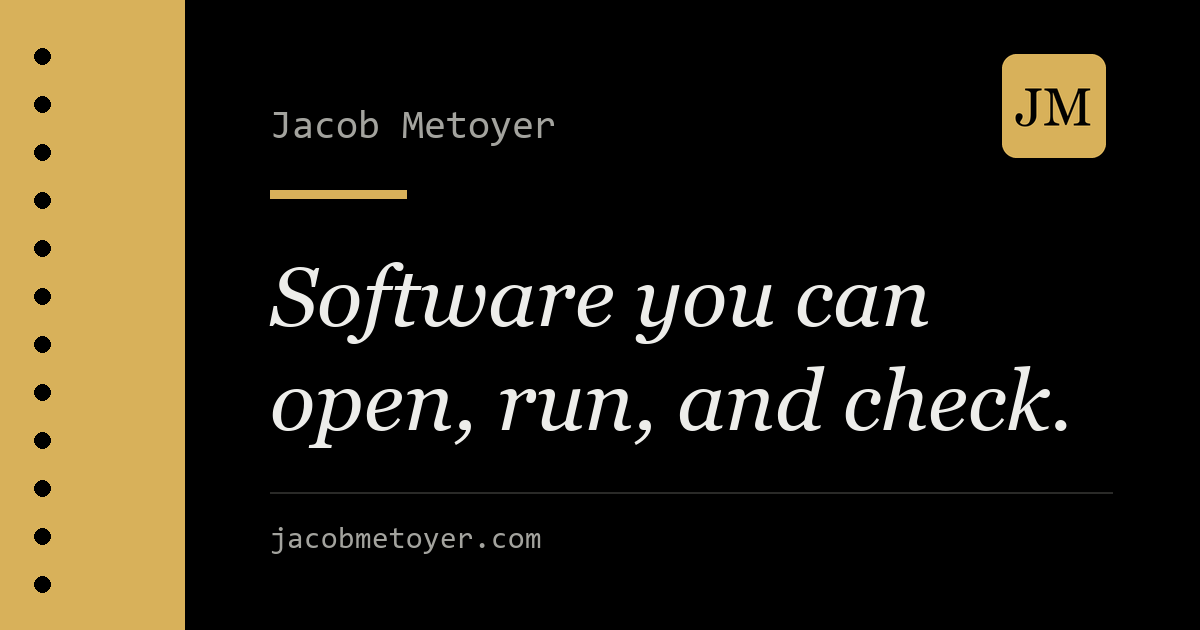
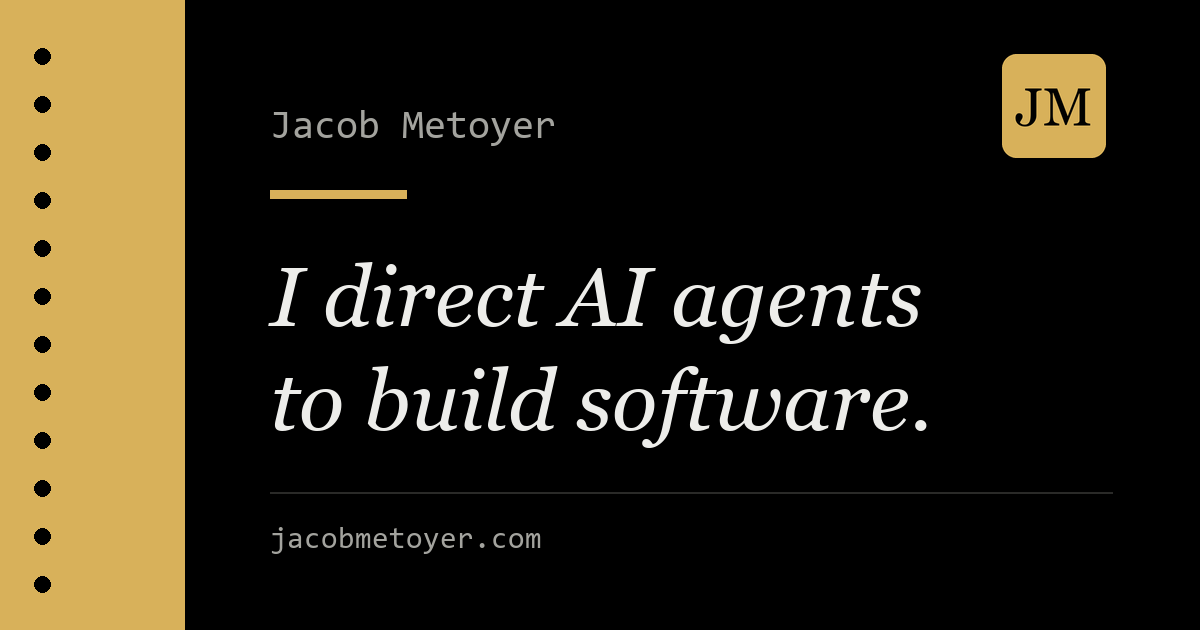
Reframe the site around directing AI agents
Jacob directs AI coding agents to build these projects and sets the bar they ship to. Say so plainly: new hero and lede, a five-step 'How it gets built' section, an About that says it in his words, and a share card and page title to match. Demos, captures and links are unchanged.

Changed region(s): [[0.2158, 0.573, 0.8942, 0.7238], [0.2158, 0.4222, 0.7708, 0.5429]]

diff --git a/docs/index.html b/docs/index.html
@@ -1,10 +1,10 @@
 <!doctype html><html lang="en"><head><meta charset="utf-8"><meta http-equiv="Content-Security-Policy" content="default-src 'none'; style-src 'self'; img-src 'self'; base-uri 'none'; form-action 'none'"><meta name="viewport" content="width=device-width,initial-scale=1">
-<title>Jacob Metoyer — software you can open, run, and check</title><meta name="description" content="Jacob Metoyer studies CS and physics at Cal State Long Beach and builds small, inspectable tools. Live demos with source."><meta name="theme-color" content="#0b0a08"><meta name="referrer" content="strict-origin-when-cross-origin">
+<title>Jacob Metoyer — I direct AI agents to build software</title><meta name="description" content="Jacob Metoyer, a CS and physics student at Cal State Long Beach, directs AI coding agents to build small tools and sets the bar they ship to. Live demos with public source."><meta name="theme-color" content="#0b0a08"><meta name="referrer" content="strict-origin-when-cross-origin">
 <link rel="canonical" href="https://jacobmetoyer.com/"><link rel="icon" href="assets/mark.svg" type="image/svg+xml"><link rel="icon" href="favicon.ico" sizes="48x48"><link rel="apple-touch-icon" href="apple-touch-icon.png"><link rel="stylesheet" href="style.css">
-<meta property="og:type" content="website"><meta property="og:title" content="Jacob Metoyer — software you can open, run, and check"><meta property="og:description" content="Jacob Metoyer studies CS and physics at Cal State Long Beach and builds small, inspectable tools. Live demos with source."><meta property="og:url" content="https://jacobmetoyer.com/">
-<meta property="og:image" content="https://jacobmetoyer.com/assets/og-card.png"><meta property="og:image:width" content="1200"><meta property="og:image:height" content="630"><meta property="og:image:alt" content="Jacob Metoyer — software you can open, run, and check."><meta name="twitter:card" content="summary_large_image">
+<meta property="og:type" content="website"><meta property="og:title" content="Jacob Metoyer — I direct AI agents to build software"><meta property="og:description" content="Jacob Metoyer, a CS and physics student at Cal State Long Beach, directs AI coding agents to build small tools and sets the bar they ship to. Live demos with public source."><meta property="og:url" content="https://jacobmetoyer.com/">
+<meta property="og:image" content="https://jacobmetoyer.com/assets/og-card.png"><meta property="og:image:width" content="1200"><meta property="og:image:height" content="630"><meta property="og:image:alt" content="Jacob Metoyer — I direct AI agents to build software. Every demo runs, with public source."><meta name="twitter:card" content="summary_large_image">
 <script type="application/ld+json">{"@context": "https://schema.org", "@type": "Person", "name": "Jacob Metoyer", "url": "https://jacobmetoyer.com", "sameAs": ["https://github.com/Jacob-Met"]}</script></head>
-<body><a class="skip" href="#main">Skip to content</a><header class="top"><a class="mark" href="#main" aria-label="Jacob Metoyer, top of page"><span aria-hidden="true">JM</span></a><nav aria-label="Sections"><a href="#demos">Demos</a><a href="#more">More work</a><a href="#about">About</a></nav></header><main id="main"><section class="hero" aria-labelledby="hero-h"><p class="kicker">CS + physics · Cal State Long Beach</p><h1 id="hero-h"><span class="name">Jacob Metoyer</span>I build software you can open, run, and check.</h1><p class="lede">I study computer science and physics at Cal State Long Beach, with a minor in biology, and I&#x27;m working toward MD/PhD training. Most of what I make starts as a research or everyday problem and ends as a small tool with its source in public.</p><p class="hero-links"><a class="btn" href="#demos">See the demos ↓</a> <a class="src" href="https://github.com/Jacob-Met" rel="noopener">GitHub · Jacob-Met</a></p></section><section id="demos" class="demos" aria-labelledby="demos-h"><div class="sec-head"><h2 id="demos-h">Demos</h2><p>Each one runs. The images are captures of the real thing; the links open it.</p></div><article class="demo" id="demo-recallweave" aria-labelledby="demo-recallweave-h"><div class="demo-media"><figure class="frame frame-desktop"><span class="frame-bar" aria-hidden="true"></span><img src="assets/demos/recallweave-desktop.webp" width="1200" height="750" alt="RecallWeave on desktop: a question about cellular energy with four answer choices, a concept map, and live mastery bars." loading="eager" decoding="async"></figure><figure class="frame frame-phone"><img src="assets/demos/recallweave-mobile.webp" width="300" height="649" alt="RecallWeave on a phone after six questions: the learning trace with per-concept mastery estimates." loading="lazy" decoding="async"></figure></div><div class="demo-copy"><p class="tag"><span class="num">01</span>ForgeHacks 2026 · AI + Education</p><h3 id="demo-recallweave-h">RecallWeave</h3><p class="line">A browser-only biology lesson that picks your next question by expected information gain and shows its mastery estimates as you answer.</p><p class="detail">The learner model is plain Bayesian knowledge tracing with every probability visible; there is no chatbot and nothing leaves the page. Submitted to ForgeHacks 2026 (Devpost entry 1221781).</p><p class="stack">JavaScript · HTML/CSS · no build step</p><p class="links"><a class="btn" href="https://jacobmetoyer.com/RecallWeave/demo.html" rel="noopener">Play the lesson →</a> <a class="src" href="https://github.com/Jacob-Met/RecallWeave" rel="noopener">Source · Jacob-Met/RecallWeave</a></p></div></article><article class="demo" id="demo-returnby" aria-labelledby="demo-returnby-h"><div class="demo-media"><figure class="frame frame-desktop"><span class="frame-bar" aria-hidden="true"></span><img src="assets/demos/returnby-desktop.webp" width="1200" height="1083" alt="ReturnBy on desktop after loading a sample email: extracted store, order date, order number, total and a 30-day return window." loading="lazy" decoding="async"></figure><figure class="frame frame-phone"><img src="assets/demos/returnby-mobile.webp" width="300" height="649" alt="ReturnBy on a phone with the same sample email parsed into editable fields." loading="lazy" decoding="async"></figure></div><div class="demo-copy"><p class="tag"><span class="num">02</span>Browser tool · TypeScript</p><h3 id="demo-returnby-h">ReturnBy</h3><p class="line">Paste an order-confirmation email and get the return deadline plus a calendar reminder, parsed entirely in your browser.</p><p class="detail">Rule-based extraction of store, date, order number and total, a per-store return-window table, and an RFC 5545 calendar file with a reminder three days out. Try a sample: the emails are fictional.</p><p class="stack">TypeScript · Vite · localStorage only</p><p class="links"><a class="btn" href="https://jacobmetoyer.com/returnby/" rel="noopener">Try it live →</a> <a class="src" href="https://github.com/Jacob-Met/returnby" rel="noopener">Source · Jacob-Met/returnby</a></p></div></article><article class="demo demo-term" id="demo-towerops" aria-labelledby="demo-towerops-h"><div class="demo-media"><figure class="term"><figcaption class="term-bar"><span aria-hidden="true"></span><code>$ python demo.py</code></figcaption><pre tabindex="0" aria-label="Captured output of python demo.py"><code>{
+<body><a class="skip" href="#main">Skip to content</a><header class="top"><a class="mark" href="#main" aria-label="Jacob Metoyer, top of page"><span aria-hidden="true">JM</span></a><nav aria-label="Sections"><a href="#demos">Demos</a><a href="#how">How</a><a href="#more">More work</a><a href="#about">About</a></nav></header><main id="main"><section class="hero" aria-labelledby="hero-h"><p class="kicker">AI-directed software · CS + physics at CSULB</p><h1 id="hero-h"><span class="name">Jacob Metoyer</span>I direct AI agents to build software, and I set the bar it has to clear.</h1><p class="lede">Most of the code on this page was written by AI coding agents I run, not typed by hand. My part is choosing the problem, writing down what done means, and deciding whether what comes back is good enough. Every demo below runs, and its source is public so you can check the work.</p><p class="hero-links"><a class="btn" href="#demos">See the demos ↓</a> <a class="src" href="#how">How they get built</a> <a class="src" href="https://github.com/Jacob-Met" rel="noopener">GitHub · Jacob-Met</a></p></section><section id="demos" class="demos" aria-labelledby="demos-h"><div class="sec-head"><h2 id="demos-h">Demos</h2><p>Each one runs. The images are captures of the real thing; the links open it.</p></div><article class="demo" id="demo-recallweave" aria-labelledby="demo-recallweave-h"><div class="demo-media"><figure class="frame frame-desktop"><span class="frame-bar" aria-hidden="true"></span><img src="assets/demos/recallweave-desktop.webp" width="1200" height="750" alt="RecallWeave on desktop: a question about cellular energy with four answer choices, a concept map, and live mastery bars." loading="eager" decoding="async"></figure><figure class="frame frame-phone"><img src="assets/demos/recallweave-mobile.webp" width="300" height="649" alt="RecallWeave on a phone after six questions: the learning trace with per-concept mastery estimates." loading="lazy" decoding="async"></figure></div><div class="demo-copy"><p class="tag"><span class="num">01</span>ForgeHacks 2026 · AI + Education</p><h3 id="demo-recallweave-h">RecallWeave</h3><p class="line">A browser-only biology lesson that picks your next question by expected information gain and shows its mastery estimates as you answer.</p><p class="detail">The learner model is plain Bayesian knowledge tracing with every probability visible; there is no chatbot and nothing leaves the page. Submitted to ForgeHacks 2026 (Devpost entry 1221781).</p><p class="stack">JavaScript · HTML/CSS · no build step</p><p class="links"><a class="btn" href="https://jacobmetoyer.com/RecallWeave/demo.html" rel="noopener">Play the lesson →</a> <a class="src" href="https://github.com/Jacob-Met/RecallWeave" rel="noopener">Source · Jacob-Met/RecallWeave</a></p></div></article><article class="demo" id="demo-returnby" aria-labelledby="demo-returnby-h"><div class="demo-media"><figure class="frame frame-desktop"><span class="frame-bar" aria-hidden="true"></span><img src="assets/demos/returnby-desktop.webp" width="1200" height="1083" alt="ReturnBy on desktop after loading a sample email: extracted store, order date, order number, total and a 30-day return window." loading="lazy" decoding="async"></figure><figure class="frame frame-phone"><img src="assets/demos/returnby-mobile.webp" width="300" height="649" alt="ReturnBy on a phone with the same sample email parsed into editable fields." loading="lazy" decoding="async"></figure></div><div class="demo-copy"><p class="tag"><span class="num">02</span>Browser tool · TypeScript</p><h3 id="demo-returnby-h">ReturnBy</h3><p class="line">Paste an order-confirmation email and get the return deadline plus a calendar reminder, parsed entirely in your browser.</p><p class="detail">Rule-based extraction of store, date, order number and total, a per-store return-window table, and an RFC 5545 calendar file with a reminder three days out. Try a sample: the emails are fictional.</p><p class="stack">TypeScript · Vite · localStorage only</p><p class="links"><a class="btn" href="https://jacobmetoyer.com/returnby/" rel="noopener">Try it live →</a> <a class="src" href="https://github.com/Jacob-Met/returnby" rel="noopener">Source · Jacob-Met/returnby</a></p></div></article><article class="demo demo-term" id="demo-towerops" aria-labelledby="demo-towerops-h"><div class="demo-media"><figure class="term"><figcaption class="term-bar"><span aria-hidden="true"></span><code>$ python demo.py</code></figcaption><pre tabindex="0" aria-label="Captured output of python demo.py"><code>{
   &quot;before_conflict&quot;: true,
   &quot;advisory&quot;: {
     &quot;aircraft_id&quot;: &quot;TWR419&quot;,
@@ -20,4 +20,4 @@
     { &quot;seq&quot;: 2, &quot;kind&quot;: &quot;ack&quot;, &quot;status&quot;: &quot;accepted&quot; },
     { &quot;seq&quot;: 3, &quot;kind&quot;: &quot;simulated_actuation&quot; }
   ]
-}</code></pre></figure></div><div class="demo-copy"><p class="tag"><span class="num">03</span>AWS Agents for Humans · research simulation</p><h3 id="demo-towerops-h">TowerOps</h3><p class="line">A toy air-traffic scenario where an agent may only propose; deterministic code checks the proposal, a human approves, and every step lands in a hash-chained audit log.</p><p class="detail">Real output from the repository&#x27;s demo, trimmed to the fields that tell the story (hashes removed). Synthetic aircraft only; not operational ATC software.</p><p class="stack">Python 3.12 · Strands Agents</p><p class="links"><a class="btn" href="https://github.com/Jacob-Met/TowerOps" rel="noopener">Run it from source →</a> <a class="src" href="https://github.com/Jacob-Met/TowerOps" rel="noopener">Source · Jacob-Met/TowerOps</a></p></div></article><aside class="slot" aria-labelledby="engine-slot-h"><p class="tag"><span class="num">··</span>In progress</p><h3 id="engine-slot-h">Game engine — early render capture</h3><p>Reserved for a labelled capture of the in-progress game engine. It goes up only once a real frame has been rendered and checked.</p></aside></section><section id="more" class="more" aria-labelledby="more-h"><div class="sec-head"><h2 id="more-h">More work</h2><p>Research and tooling projects with source, but no in-browser demo.</p></div><ul class="cards"><li><h3><a href="https://github.com/Jacob-Met/CaptureSuite" rel="noopener">CaptureSuite</a></h3><p>Windows-first multimodal research capture: a daemon, versioned worker plugins and sealed session packages, with an offline QC demo on synthetic EMG/IMU data.</p></li><li><h3><a href="https://github.com/Jacob-Met/canvaspilot" rel="noopener">CanvasPilot</a></h3><p>An MCP server and CLI for Canvas LMS that rides the browser session you already have, for schools that disable personal access tokens.</p></li><li><h3><a href="https://github.com/Jacob-Met/workflow-checks" rel="noopener">workflow-checks</a></h3><p>Three small Python checks for back-office paperwork (utility bills, freight detention, PT authorizations), run on synthetic data with file:row evidence.</p></li></ul></section><section id="about" class="about" aria-labelledby="about-h"><h2 id="about-h">About</h2><p>I study computer science and physics at Cal State Long Beach, with a minor in biology, and I&#x27;m working toward MD/PhD training. Most of what I make starts as a research or everyday problem and ends as a small tool with its source in public.</p><p>The fastest way to reach me or see what I&#x27;m working on is GitHub. <a href="https://github.com/Jacob-Met" rel="noopener">github.com/Jacob-Met</a></p></section></main><footer class="foot"><p>Updated 2026-10-06 · Static page, no trackers, no scripts.</p></footer></body></html>
+}</code></pre></figure></div><div class="demo-copy"><p class="tag"><span class="num">03</span>AWS Agents for Humans · research simulation</p><h3 id="demo-towerops-h">TowerOps</h3><p class="line">A toy air-traffic scenario where an agent may only propose; deterministic code checks the proposal, a human approves, and every step lands in a hash-chained audit log.</p><p class="detail">Real output from the repository&#x27;s demo, trimmed to the fields that tell the story (hashes removed). Synthetic aircraft only; not operational ATC software.</p><p class="stack">Python 3.12 · Strands Agents</p><p class="links"><a class="btn" href="https://github.com/Jacob-Met/TowerOps" rel="noopener">Run it from source →</a> <a class="src" href="https://github.com/Jacob-Met/TowerOps" rel="noopener">Source · Jacob-Met/TowerOps</a></p></div></article><aside class="slot" aria-labelledby="engine-slot-h"><p class="tag"><span class="num">··</span>In progress</p><h3 id="engine-slot-h">Game engine — early render capture</h3><p>Reserved for a labelled capture of the in-progress game engine. It goes up only once a real frame has been rendered and checked.</p></aside></section><section id="how" class="how" aria-labelledby="how-h"><div class="sec-head"><h2 id="how-h">How it gets built</h2><p>The same loop for every project here. Agents do the building; the direction and the standard are mine.</p></div><ol class="steps"><li><p class="step-n">01</p><h3>I pick the problem</h3><p>Usually something from research, school or everyday friction that a small tool could fix.</p></li><li><p class="step-n">02</p><h3>I write the bar</h3><p>A short brief: what it must do, what it must not do, and how we will know it works.</p></li><li><p class="step-n">03</p><h3>Agents build it</h3><p>AI coding agents on my own machines write the code, the tests and the docs, often several at once.</p></li><li><p class="step-n">04</p><h3>Checks before claims</h3><p>Tests and CI run, another agent reviews it, and anything that misses the brief goes back. I make the call on what is good enough.</p></li><li><p class="step-n">05</p><h3>It ships with source</h3><p>Public repository, a live link where there is one, and nothing claimed that the code does not do.</p></li></ol></section><section id="more" class="more" aria-labelledby="more-h"><div class="sec-head"><h2 id="more-h">More work</h2><p>Research and tooling projects with source, but no in-browser demo.</p></div><ul class="cards"><li><h3><a href="https://github.com/Jacob-Met/CaptureSuite" rel="noopener">CaptureSuite</a></h3><p>Windows-first multimodal research capture: a daemon, versioned worker plugins and sealed session packages, with an offline QC demo on synthetic EMG/IMU data.</p></li><li><h3><a href="https://github.com/Jacob-Met/canvaspilot" rel="noopener">CanvasPilot</a></h3><p>An MCP server and CLI for Canvas LMS that rides the browser session you already have, for schools that disable personal access tokens.</p></li><li><h3><a href="https://github.com/Jacob-Met/workflow-checks" rel="noopener">workflow-checks</a></h3><p>Three small Python checks for back-office paperwork (utility bills, freight detention, PT authorizations), run on synthetic data with file:row evidence.</p></li></ul></section><section id="about" class="about" aria-labelledby="about-h"><h2 id="about-h">About</h2><p>I study computer science and physics at Cal State Long Beach, with a minor in biology, and I&#x27;m working toward MD/PhD training.</p><p>I spend far more time directing AI agents than writing code by hand. The useful skill turns out to be the unglamorous part: a clear brief, a bar you can actually check, and being willing to throw work away when it misses.</p><p>Most projects start as a research or everyday problem and end as a small tool with its source in public.</p><p>The fastest way to reach me or see what I&#x27;m working on is GitHub. <a href="https://github.com/Jacob-Met" rel="noopener">github.com/Jacob-Met</a></p></section></main><footer class="foot"><p>Updated 2026-10-06 · Static page, no trackers, no scripts.</p></footer></body></html>

diff --git a/docs/404.html b/docs/404.html
@@ -2,6 +2,6 @@
 <title>Not found · Jacob Metoyer</title><meta name="description" content="Nothing here. Back to the demos."><meta name="theme-color" content="#0b0a08"><meta name="referrer" content="strict-origin-when-cross-origin">
 <link rel="canonical" href="https://jacobmetoyer.com/404.html"><link rel="icon" href="/assets/mark.svg" type="image/svg+xml"><link rel="icon" href="/favicon.ico" sizes="48x48"><link rel="apple-touch-icon" href="/apple-touch-icon.png"><link rel="stylesheet" href="/style.css">
 <meta property="og:type" content="website"><meta property="og:title" content="Not found · Jacob Metoyer"><meta property="og:description" content="Nothing here. Back to the demos."><meta property="og:url" content="https://jacobmetoyer.com/404.html">
-<meta property="og:image" content="https://jacobmetoyer.com/assets/og-card.png"><meta property="og:image:width" content="1200"><meta property="og:image:height" content="630"><meta property="og:image:alt" content="Jacob Metoyer — software you can open, run, and check."><meta name="twitter:card" content="summary_large_image">
+<meta property="og:image" content="https://jacobmetoyer.com/assets/og-card.png"><meta property="og:image:width" content="1200"><meta property="og:image:height" content="630"><meta property="og:image:alt" content="Jacob Metoyer — I direct AI agents to build software. Every demo runs, with public source."><meta name="twitter:card" content="summary_large_image">
 <script type="application/ld+json">{"@context": "https://schema.org", "@type": "Person", "name": "Jacob Metoyer", "url": "https://jacobmetoyer.com", "sameAs": ["https://github.com/Jacob-Met"]}</script></head>
 <body><a class="skip" href="#main">Skip to content</a><main id="main" class="not-found"><h1>Nothing here.</h1><p><a class="btn" href="/index.html#demos">Back to the demos</a></p></main></body></html>

diff --git a/docs/style.css b/docs/style.css
@@ -121,6 +121,15 @@ section { border-top: 1px solid var(--rule); padding: clamp(40px, 6vw, 72px) 0; 
 .cards p { margin: 0; font-size: 15.5px; color: var(--mute); }
 
 .about p { max-width: 640px; margin-top: 16px; }
+/* How it gets built */
+.how { padding-top: clamp(56px, 8vw, 96px); }
+.steps { list-style: none; margin: 0; padding: 0; display: grid; gap: 14px; }
+.steps li { padding: 20px 22px; border: 1px solid var(--rule); border-left: 3px solid var(--acc); border-radius: 14px; background: var(--bg-2); min-width: 0; }
+.steps .step-n { margin: 0 0 6px; color: var(--acc); font: 600 12px/1.4 var(--mono); letter-spacing: .12em; }
+.steps h3 { font: 600 18px/1.3 var(--sans); margin-bottom: 6px; }
+.steps li p:last-child { margin: 0; font-size: 15px; color: var(--mute); }
+@media (min-width: 720px) { .steps { grid-template-columns: repeat(2, minmax(0, 1fr)); } }
+@media (min-width: 1040px) { .steps { grid-template-columns: repeat(5, minmax(0, 1fr)); } }
 .foot { width: var(--wrap); margin: 0 auto; padding: 26px 0 40px; border-top: 1px solid var(--rule); }
 .foot p { margin: 0; color: var(--mute); font: 12.5px/1.5 var(--mono); }
 .not-found { padding: 18vh 0; text-align: center; }

diff --git a/source/style.css b/source/style.css
@@ -121,6 +121,15 @@ section { border-top: 1px solid var(--rule); padding: clamp(40px, 6vw, 72px) 0; 
 .cards p { margin: 0; font-size: 15.5px; color: var(--mute); }
 
 .about p { max-width: 640px; margin-top: 16px; }
+/* How it gets built */
+.how { padding-top: clamp(56px, 8vw, 96px); }
+.steps { list-style: none; margin: 0; padding: 0; display: grid; gap: 14px; }
+.steps li { padding: 20px 22px; border: 1px solid var(--rule); border-left: 3px solid var(--acc); border-radius: 14px; background: var(--bg-2); min-width: 0; }
+.steps .step-n { margin: 0 0 6px; color: var(--acc); font: 600 12px/1.4 var(--mono); letter-spacing: .12em; }
+.steps h3 { font: 600 18px/1.3 var(--sans); margin-bottom: 6px; }
+.steps li p:last-child { margin: 0; font-size: 15px; color: var(--mute); }
+@media (min-width: 720px) { .steps { grid-template-columns: repeat(2, minmax(0, 1fr)); } }
+@media (min-width: 1040px) { .steps { grid-template-columns: repeat(5, minmax(0, 1fr)); } }
 .foot { width: var(--wrap); margin: 0 auto; padding: 26px 0 40px; border-top: 1px solid var(--rule); }
 .foot p { margin: 0; color: var(--mute); font: 12.5px/1.5 var(--mono); }
 .not-found { padding: 18vh 0; text-align: center; }

diff --git a/source/build.py b/source/build.py
@@ -20,9 +20,9 @@ from urllib.parse import urlsplit
 
 ROOT = Path(__file__).resolve().parent
 BASE = 'https://jacobmetoyer.com'
-TITLE = 'Jacob Metoyer — software you can open, run, and check'
-DESC = 'Jacob Metoyer studies CS and physics at Cal State Long Beach and builds small, inspectable tools. Live demos with source.'
-SHARE_ALT = 'Jacob Metoyer — software you can open, run, and check.'
+TITLE = 'Jacob Metoyer — I direct AI agents to build software'
+DESC = 'Jacob Metoyer, a CS and physics student at Cal State Long Beach, directs AI coding agents to build small tools and sets the bar they ship to. Live demos with public source.'
+SHARE_ALT = 'Jacob Metoyer — I direct AI agents to build software. Every demo runs, with public source.'
 ALLOWED_HOSTS = {'github.com', 'jacobmetoyer.com'}
 CSP = "default-src 'none'; style-src 'self'; img-src 'self'; base-uri 'none'; form-action 'none'"
 ROOT_ICONS = ('favicon.ico', 'apple-touch-icon.png')
@@ -30,7 +30,7 @@ SHARE_CARD = 'assets/og-card.png'
 DATE_RE = re.compile(r'\d{4}-\d{2}-\d{2}')
 SLUG_RE = re.compile(r'[a-z][a-z0-9-]{1,31}')
 SHOT_RE = re.compile(r'assets/demos/[a-z0-9-]+\.webp')
-SECTIONS = (('demos', 'Demos'), ('more', 'More work'), ('about', 'About'))
+SECTIONS = (('demos', 'Demos'), ('how', 'How'), ('more', 'More work'), ('about', 'About'))
 
 
 def text(value, limit: int = 600) -> str:
@@ -82,7 +82,7 @@ def check_shot(shot) -> None:
 
 
 def validate(data: dict) -> None:
-    keys(data, {'visibility', 'name', 'updated', 'hero', 'demos', 'terminal_demo', 'engine_slot', 'projects', 'contact'}, 'record')
+    keys(data, {'visibility', 'name', 'updated', 'hero', 'demos', 'terminal_demo', 'engine_slot', 'how', 'projects', 'about', 'contact'}, 'record')
     if data['visibility'] != 'public':
         raise ValueError('Only explicitly public content can be built')
     if data['name'] != 'Jacob Metoyer':
@@ -120,6 +120,16 @@ def validate(data: dict) -> None:
     for p in projects:
         keys(p, {'name', 'line', 'url'}, 'project'); text(p['name'], 40); text(p['line'], 240); safe_url(p['url'])
     c = keys(data['contact'], {'line', 'url'}, 'contact'); text(c['line'], 200); safe_url(c['url'])
+    w = keys(data['how'], {'title', 'line', 'steps'}, 'how'); text(w['title'], 60); text(w['line'], 200)
+    if not isinstance(w['steps'], list) or not 3 <= len(w['steps']) <= 6:
+        raise ValueError('Three to six process steps')
+    for st in w['steps']:
+        keys(st, {'name', 'line'}, 'step'); text(st['name'], 40); text(st['line'], 200)
+    ab = keys(data['about'], {'lines'}, 'about')
+    if not isinstance(ab['lines'], list) or not 1 <= len(ab['lines']) <= 4:
+        raise ValueError('One to four about paragraphs')
+    for line in ab['lines']:
+        text(line, 400)
 
 
 def esc(value: str) -> str:
@@ -179,6 +189,9 @@ def render_index(r: dict) -> str:
             f'<h3 id="engine-slot-h">{esc(e["title"])}</h3><p>{esc(e["line"])}</p></aside>')
     projects = ''.join(f'<li><h3>{ext(p["url"], p["name"])}</h3><p>{esc(p["line"])}</p></li>' for p in r['projects'])
     c = r['contact']
+    w = r['how']
+    steps = ''.join(f'<li><p class="step-n">{i:02d}</p><h3>{esc(st["name"])}</h3><p>{esc(st["line"])}</p></li>' for i, st in enumerate(w['steps'], 1))
+    about = ''.join(f'<p>{esc(line)}</p>' for line in r['about']['lines'])
     return (
         '<a class="skip" href="#main">Skip to content</a>'
         f'<header class="top"><a class="mark" href="#main" aria-label="Jacob Metoyer, top of page"><span aria-hidden="true">JM</span></a>'
@@ -187,14 +200,16 @@ def render_index(r: dict) -> str:
         f'<section class="hero" aria-labelledby="hero-h"><p class="kicker">{esc(h["kicker"])}</p>'
         f'<h1 id="hero-h"><span class="name">Jacob Metoyer</span>{esc(h["title"])}</h1>'
         f'<p class="lede">{esc(h["lede"])}</p>'
-        f'<p class="hero-links"><a class="btn" href="#demos">See the demos ↓</a> {ext(h["source"], "GitHub · Jacob-Met", "src")}</p></section>'
+        f'<p class="hero-links"><a class="btn" href="#demos">See the demos ↓</a> <a class="src" href="#how">How they get built</a> {ext(h["source"], "GitHub · Jacob-Met", "src")}</p></section>'
         f'<section id="demos" class="demos" aria-labelledby="demos-h"><div class="sec-head"><h2 id="demos-h">Demos</h2>'
         f'<p>Each one runs. The images are captures of the real thing; the links open it.</p></div>'
         + ''.join(demos) + slot + '</section>'
+        f'<section id="how" class="how" aria-labelledby="how-h"><div class="sec-head"><h2 id="how-h">{esc(w["title"])}</h2>'
+        f'<p>{esc(w["line"])}</p></div><ol class="steps">{steps}</ol></section>'
         f'<section id="more" class="more" aria-labelledby="more-h"><div class="sec-head"><h2 id="more-h">More work</h2>'
         f'<p>Research and tooling projects with source, but no in-browser demo.</p></div><ul class="cards">{projects}</ul></section>'
         f'<section id="about" class="about" aria-labelledby="about-h"><h2 id="about-h">About</h2>'
-        f'<p>{esc(h["lede"])}</p><p>{esc(c["line"])} {ext(c["url"], "github.com/Jacob-Met")}</p></section>'
+        f'{about}<p>{esc(c["line"])} {ext(c["url"], "github.com/Jacob-Met")}</p></section>'
         '</main>'
         f'<footer class="foot"><p>Updated {esc(r["updated"])} · Static page, no trackers, no scripts.</p></footer>'
     )

diff --git a/source/test_site.py b/source/test_site.py
@@ -136,6 +136,10 @@ class ContentTests(Built):
         for img in re.findall(r'<img [^>]+>', self.main()):
             with self.subTest(img=img[:60]):
                 self.assertRegex(img, r'alt="[^"]{20,}"'); self.assertRegex(img, r'width="\d+" height="\d+"')
+    def test_how_section_states_who_builds(self):
+        sec = re.search(r'<section id="how"[^>]*>(.*?)</section>', self.main(), re.S).group(1)
+        self.assertEqual(sec.count('<li>'), len(self.data['how']['steps']))
+        self.assertIn('agent', self.data['hero']['title'].lower())
     def test_engine_slot_is_labelled_placeholder_without_media(self):
         slot = re.search(r'<aside class="slot"[^>]*>(.*?)</aside>', self.main(), re.S)
         self.assertIsNotNone(slot); self.assertNotIn('<img', slot.group(1)); self.assertIn('In progress', slot.group(1))

diff --git a/source/make_images.py b/source/make_images.py
@@ -67,8 +67,8 @@ def share_card() -> Image.Image:
     x = 270
     d.text((x, 108), 'Jacob Metoyer', font=font(MONO_CANDIDATES, 40), fill=MUTE)
     d.rectangle((x, 190, x + 136, 198), fill=ACCENT)
-    # Tagline matches the live hero (content.json hero title / build.py TITLE).
-    lines = ('Software you can', 'open, run, and check.')
+    # Tagline matches the page title (build.py TITLE): Jacob directs the agents that build.
+    lines = ('I direct AI agents', 'to build software.')
     size = 84
     while size > 48 and max(d.textlength(t, font=font(SERIF_ITALIC_CANDIDATES, size)) for t in lines) > w - 88 - x:
         size -= 2
